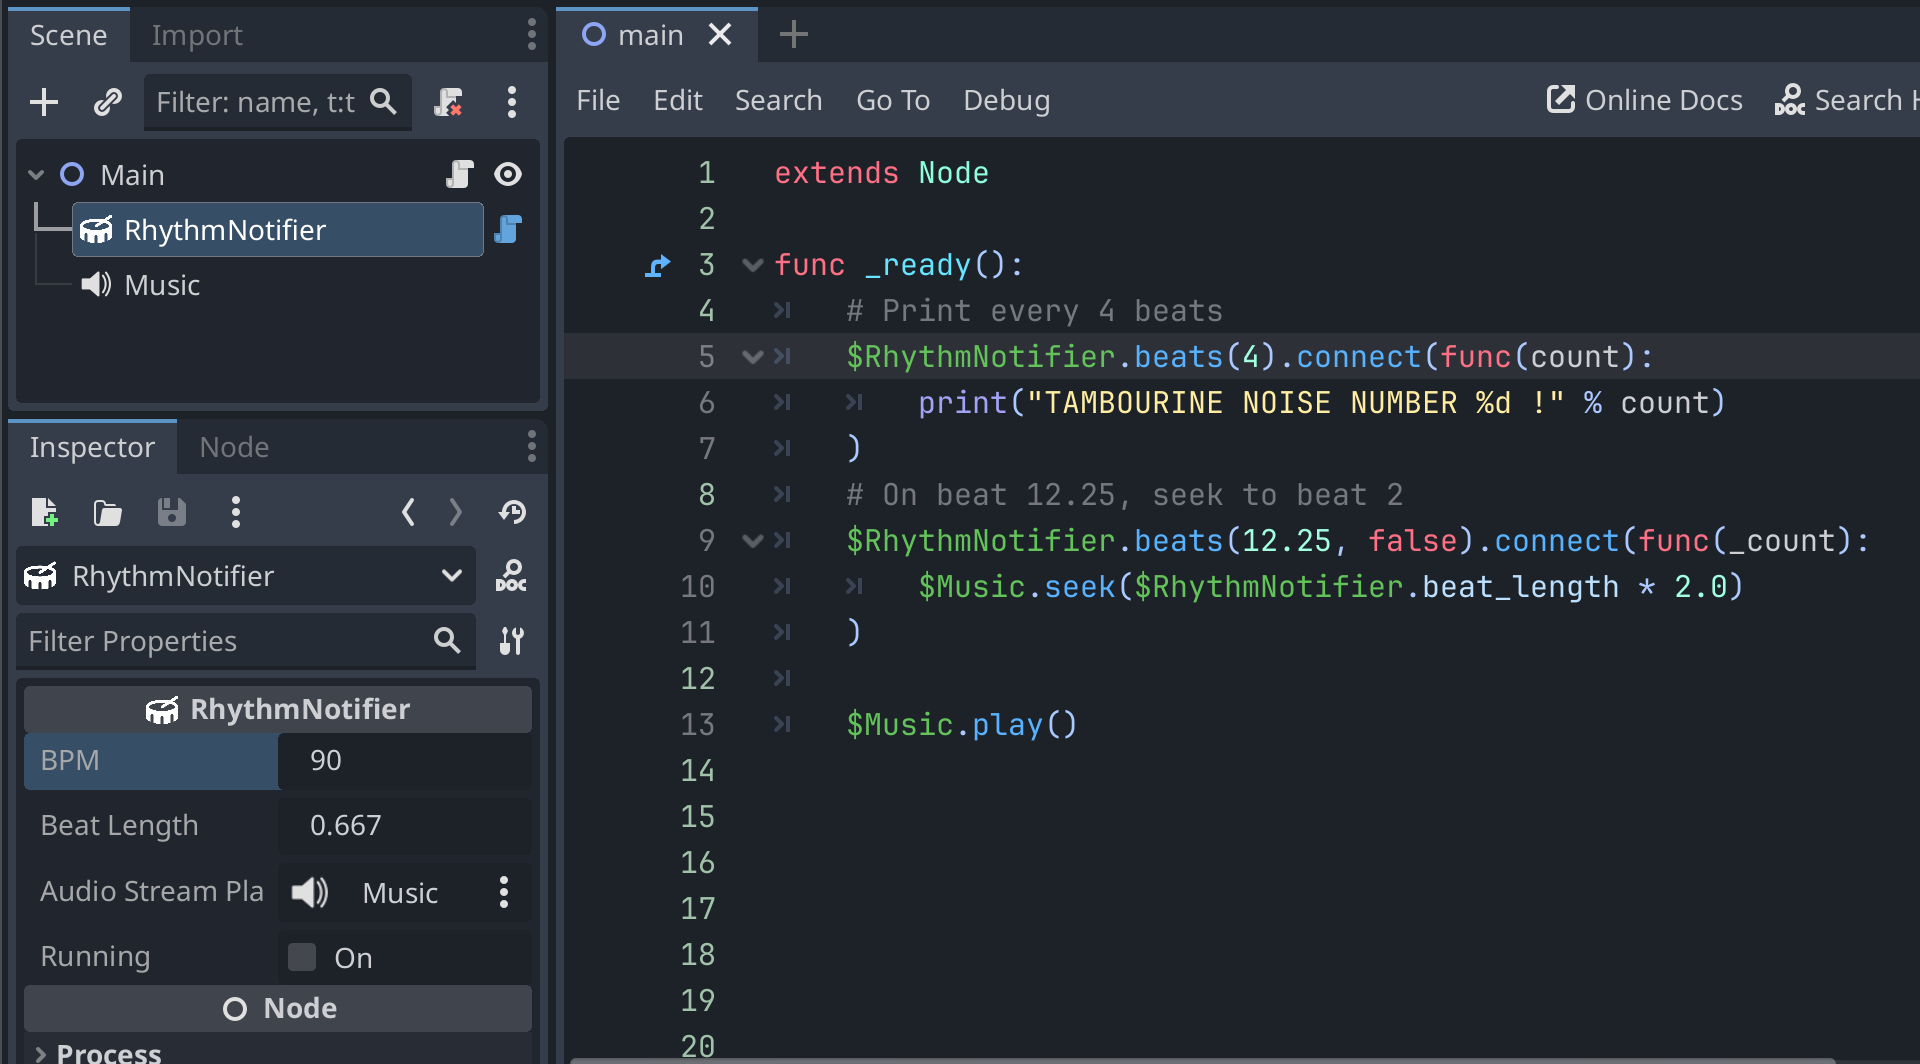
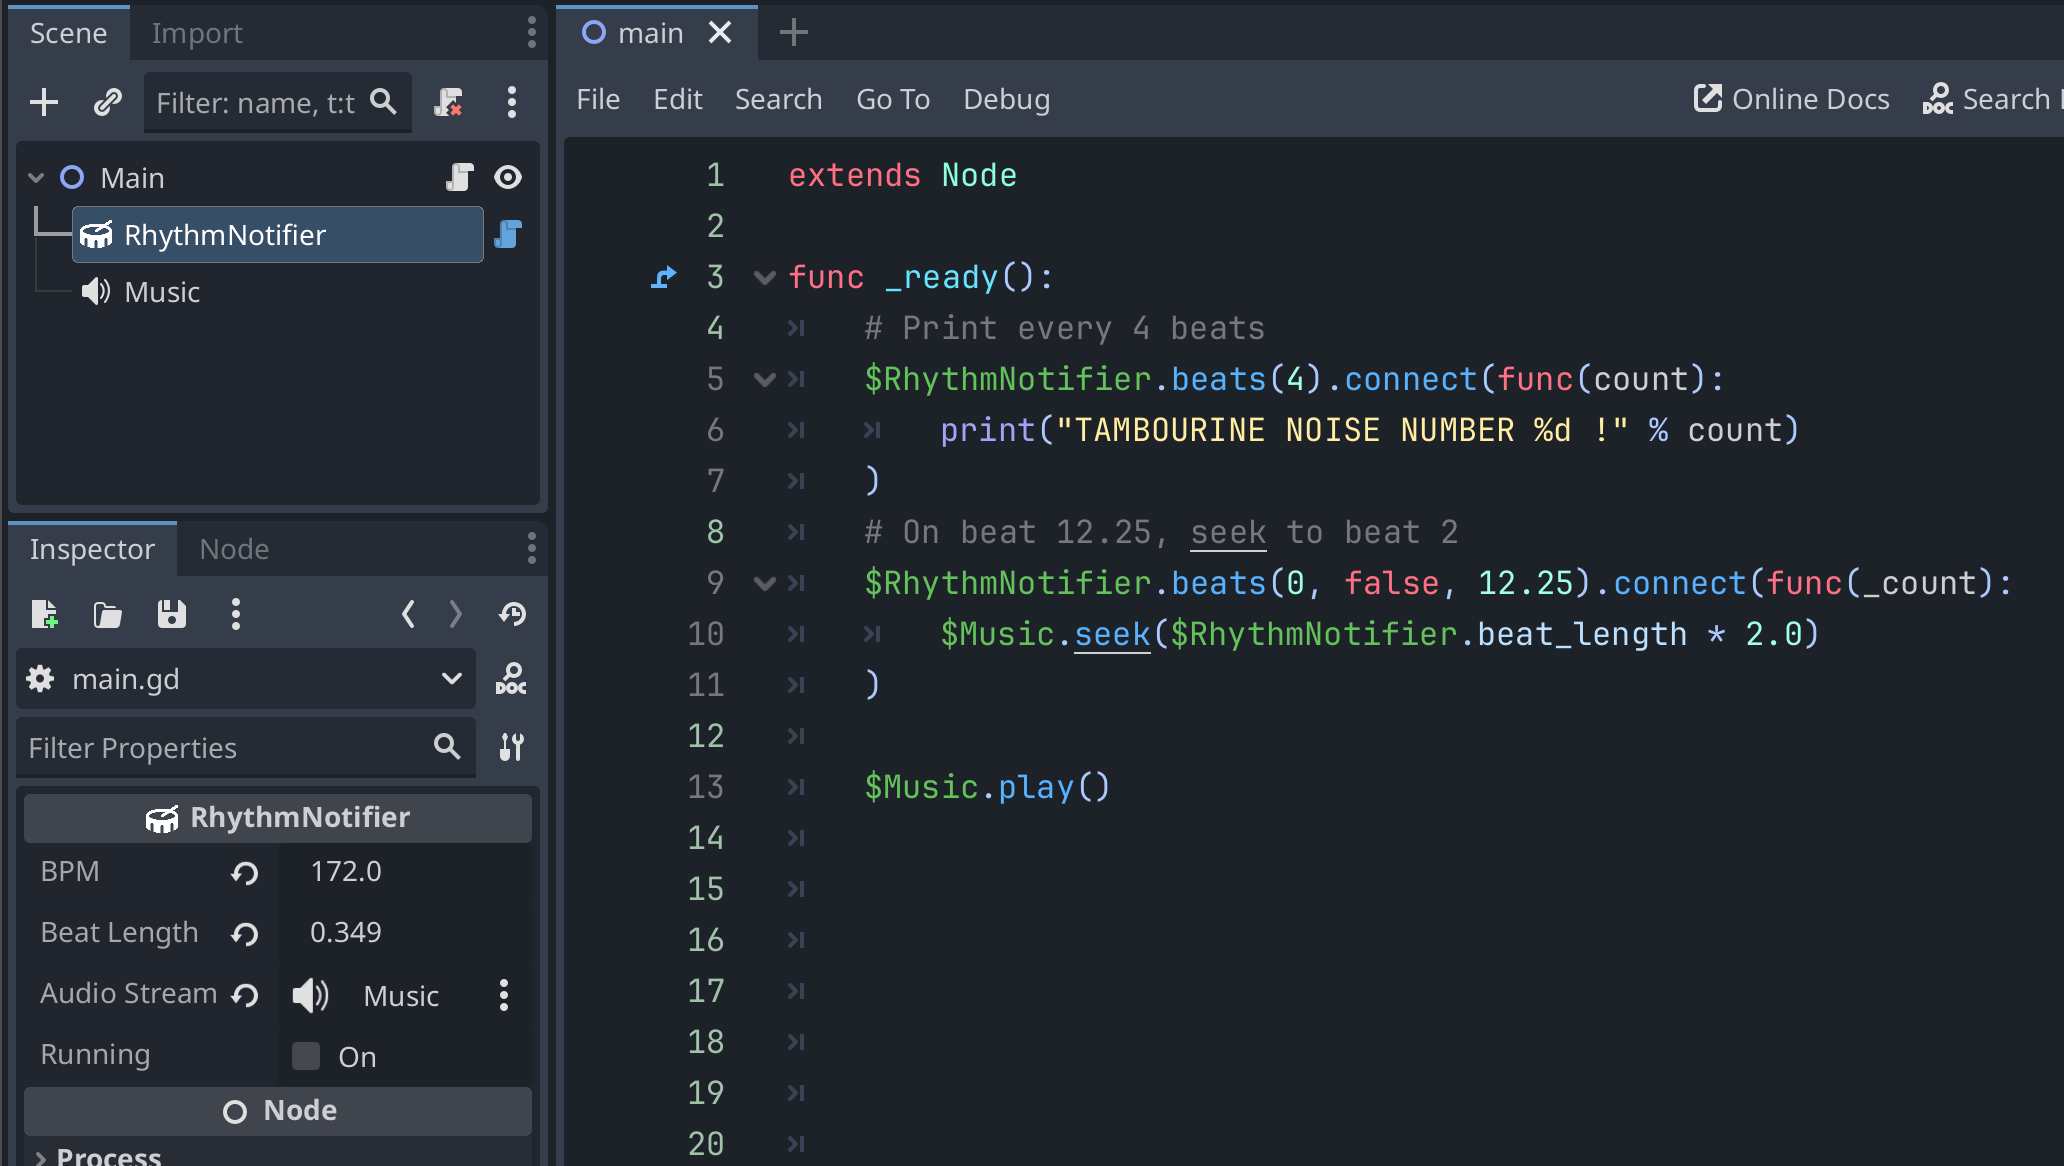
Version 1.1 - emit on beat zero. Bugfix in .beats(_, false, _)

diff --git a/README.md b/README.md
@@ -1,5 +1,6 @@
 # RhythmNotifier
 
+
 A Godot 4 addon for syncing game events and sound effects with the beat of the music.
 
 ![Hey](/screenshots/example.png)
@@ -55,29 +56,29 @@ The **RhythmNotifier** node will then be available when you Add Node in a scene.
 #   func beats(beat_count: float, repeating := true, start_beat := 0.0) -> Signal
 #
 # We'll use this below to create repeating signals that emit every `beat_count`
-# beats after `start_beat`, and non-repeating signals that emit when we reach
-# `beat_count` beats after `start_beat`.
+# beats, starting on `start_beat`, and non-repeating signals that emit when we reach
+# `start_beat`.
 
 # Play music and emit lots of signals
 func _play_some_music():
-    # Print on beat 4, 8, 12...
+    # Print on beat 0, 4, 8, 12...
     r.beats(4).connect(func(count): print("Hello from beat %d!" % (count * 4)))
 
-    # Print on beat 5, 8, 11...
+    # Print on beat 2, 5, 8, 11...
     r.beats(3, true, 2).connect(func(count): print("Hello from beat %d!" % 2+(count * 3)))
 
-    # Print anytime beat 8.5 is reached
-    r.beats(8.5, false).connect(func(_i): print("Hello from beat eight and a half!"))
+    # Print anytime beat 8.5 is reached.  The first param is ignored when the second is `false`..
+    r.beats(0, false, 8.5).connect(func(_i): print("Hello from beat eight and a half!"))
 
     r.audio_stream_player.play()  # Start signaling
     r.audio_stream_player.seek(1.5)  # pausing/stopping/seeking all supported
 
     # Stop playback on beat 20
-    r.beats(20, false).connect(func(_i): r.audio_stream_player.stop())
+    r.beats(0, false, 20).connect(func(_i): r.audio_stream_player.stop())
 
 # Play the music after 4 pickup beats
 func _play_with_leadin():
-    r.beats(4, false).connect(func(_i):
+    r.beats(0, false, 4).connect(func(_i):
         r.audio_stream_player.play()
     , CONNECT_ONE_SHOT)
 
@@ -111,10 +112,11 @@ var r = RhythmNotifier.new()
 get_tree().current_scene.add_child(r)
 r.running = true
 
-# Say the measure number at the start of each measure
+# Say the measure number at the start of each measure.  We add 1 to the beat count
+# provided, since musicians say "one" on the first measure but we count from 0.
 r.beats(3).connect(func(count):
     print("TIME %.2f, BEAT %2d  :    %d!" %
-        [r.current_position, r.current_beat, count])
+        [r.current_position, r.current_beat, count+1])
 )
 # Say the other downbeats in the measure
 r.beat.connect(func(count):
@@ -130,24 +132,33 @@ r.beats(.5).connect(func(i):
 )
 
 # Output:
+#     TIME 0.00, BEAT  0  :    1!
 #     TIME 0.52, BEAT  0.5:       (and)
 #     TIME 1.00, BEAT  1  :       (2)
 #     TIME 1.52, BEAT  1.5:       (and)
 #     TIME 2.02, BEAT  2  :       (3)
 #     TIME 2.52, BEAT  2.5:       (and)
-#     TIME 3.02, BEAT  3  :    1!
+#     TIME 3.02, BEAT  3  :    2!
 #     TIME 3.52, BEAT  3.5:       (and)
 #     TIME 4.02, BEAT  4  :       (2)
 #     TIME 4.52, BEAT  4.5:       (and)
 #     TIME 5.02, BEAT  5  :       (3)
 #     TIME 5.52, BEAT  5.5:       (and)
-#     TIME 6.02, BEAT  6  :    2!
+#     TIME 6.02, BEAT  6  :    3!
 #     TIME 6.52, BEAT  6.5:       (and)
 #     TIME 7.02, BEAT  7  :       (2)
 #     TIME 7.52, BEAT  7.5:       (and)
 #     TIME 8.02, BEAT  8  :       (3)
 #     TIME 8.50, BEAT  8.5:       (and)
-#     TIME 9.00, BEAT  9  :    3!
+#     TIME 9.00, BEAT  9  :    4!
 #     TIME 9.50, BEAT  9.5:       (and)
 # ...etc
 ```
+
+## CHANGELOG
+
+* Version 1.0:
+  - Initial release
+* Version 1.1:
+  - API change: emit signals on beat zero as well, instead of skipping beat 0.
+  - Bugfix in .beats(_, false, _).
